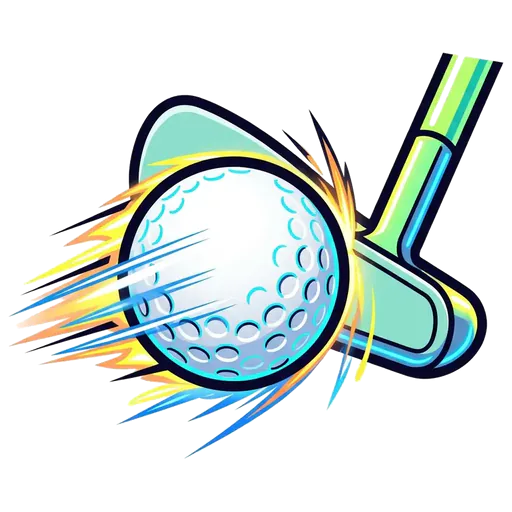
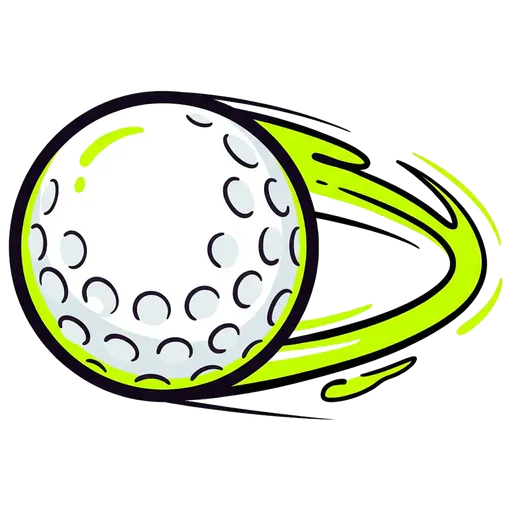
art(office): ball-only golf, neon paper planes, calmer stone and marble floors

diff --git a/public-office/art/SOURCES.md b/public-office/art/SOURCES.md
@@ -60,11 +60,11 @@ AI-generated for the fictional company 야근상사: no real people, brands, log
 | `cut/op-1.webp` | nano_banana_flash | $STYLE. Vertical 9:16 full-scene comic panel illustration with a fully drawn detailed background filling the entire image top to bottom, no empty areas, no lettering, no boxes or frames, any screens and papers blank. Late afternoon in the open-plan office of the fictional company, both heroes sit at their desks staring intensely at a big analog wall clock (hands only, no numbers) pointing to almost 5:30, sunset light through the window, nervous sweat drops; desks, chairs and carpet floor visible in the lower part. The two heroes are exactly the characters in the two reference images. |
 | `cut/op-2.webp` | nano_banana_flash | $STYLE. Vertical comic panel illustration, a lively Korean office of the fictional company, clean readable composition, any clocks are analog with hands only and no numbers, any screens and papers are blank, keep the bottom fifth of the image calm and simple (a caption box will be drawn there). Both heroes secretly packing their bags under the desks with sneaky faces, while the boss in the third reference image (cardigan with sticky notes) suddenly pops his head up over the cubicle partition behind them with a sly grin, manga surprise lines. The two heroes are exactly the characters in the first two reference images (a young man with round glasses, white shirt, mint necktie and orange backpack; a young woman with a black bob, lavender blouse, pink lanyard badge and eco bag). |
 | `floor-0.webp` | nano_banana_flash | bright Korean webtoon comic background art, bold clean outlines, soft pastel base colors with a few small neon accent pops, flat cel shading, low contrast calm background (characters will be drawn on top), no people, no text, no letters, no numbers, no logos. Top-down orthographic view looking straight down at a floor, seamless repeating texture, uniform even pattern edge to edge, flat even lighting, no objects, no shadows, no perspective. The floor: soft grey-blue office carpet tiles in a checker of two pastel tones with subtle fiber texture. |
-| `floor-0-dawn.webp` | nano_banana_flash | bright Korean webtoon comic background art, bold clean outlines, soft pastel base colors with a few small neon accent pops, flat cel shading, low contrast calm background (characters will be drawn on top), no people, no text, no letters, no numbers, no logos. Top-down orthographic view looking straight down at a floor, seamless repeating texture, uniform even pattern edge to edge, flat even lighting, no objects, no shadows, no perspective. The floor: polished cream lobby marble floor slabs with soft veins and warm pink sunset reflections. |
+| `floor-0-dawn.webp` | nano_banana_flash | bright Korean webtoon comic background art, soft pastel colors, flat cel shading, very low contrast and low detail, no text, no logos. Seamless tileable floor texture seen from directly above: smooth soft cream marble lobby floor with large rectangular slabs, only very subtle thin seams and faint soft veins, nearly uniform warm color, no reflections, no light streaks, flat even lighting, nothing on the floor. |
 | `floor-0-night.webp` | nano_banana_flash | bright Korean webtoon comic background art, bold clean outlines, soft pastel base colors with a few small neon accent pops, flat cel shading, low contrast calm background (characters will be drawn on top), no people, no text, no letters, no numbers, no logos. Top-down orthographic view looking straight down at a floor, seamless repeating texture, uniform even pattern edge to edge, flat even lighting, no objects, no shadows, no perspective. The floor: polished cream lobby marble floor slabs with soft veins and cool blue reflections. |
 | `floor-1.webp` | nano_banana_flash | bright Korean webtoon comic background art, soft pastel colors, flat cel shading, very low contrast and low detail, no text, no logos. Seamless tileable floor texture seen from directly above: smooth light mint vinyl office flooring with only a soft subtle mottled speckle, no tiles, no grid lines, no seams, nearly uniform color, flat even lighting, nothing on the floor. |
 | `floor-2.webp` | nano_banana_flash | bright Korean webtoon comic background art, soft pastel colors, flat cel shading, very low contrast and low detail, no text, no logos. Seamless tileable floor texture seen from directly above: soft lavender low-pile office carpet with a gentle fuzzy fiber texture and faint soft mottling, no tiles, no grid lines, no seams, no pattern, nearly uniform color, flat even lighting, nothing on the floor. |
-| `floor-3.webp` | nano_banana_flash | bright Korean webtoon comic background art, bold clean outlines, soft pastel base colors with a few small neon accent pops, flat cel shading, low contrast calm background (characters will be drawn on top), no people, no text, no letters, no numbers, no logos. Top-down orthographic view looking straight down at a floor, seamless repeating texture, uniform even pattern edge to edge, flat even lighting, no objects, no shadows, no perspective. The floor: polished peach and cream terrazzo floor tiles with small speckles. |
+| `floor-3.webp` | nano_banana_flash | bright Korean webtoon comic background art, soft pastel colors, flat cel shading, very low contrast and low detail, no text, no logos. Seamless tileable floor texture seen from directly above: smooth soft peach polished stone floor with large square tiles and only very subtle thin light seams, nearly uniform color, no speckles, no reflections, flat even lighting, nothing on the floor. |
 | `hero-cat-hit.webp` | nano_banana_flash | $STYLE. Same exact character, outfit and size as the reference image, strict side profile facing RIGHT. Getting bonked while running right: body recoiling backward to the left, face in profile pointing right, dizzy swirl eyes, little stars and a cartoon bump on the head, arms flailing, funny harmless; no objects, no hammer, no weapon. Single character only, full body, pure flat white background, no ground, no shadow, no speed lines. |
 | `hero-cat-jump.webp` | nano_banana_flash | $STYLE. Same exact character, same outfit, same colors, same size and same camera angle as the reference image. Strict side profile view facing RIGHT exactly like the reference: the nose, face, eyes and chest all point to the RIGHT edge of the image, eyes looking straight ahead to the right, we never see the back of the head and the character never looks at the viewer. Single character only, full body head to toe inside the frame, on a pure flat white background, no ground, no shadow, no speed-line background. Jumping high toward the right in side profile: knees tucked up under the body, arms thrown up and forward, excited surprised face in profile looking right. |
 | `hero-cat-run1.webp` | nano_banana_flash (2k, 21:9 sheet) | frame 1 of 4 cut from one run-cycle sheet: $STYLE. Game sprite sheet: exactly FOUR frames of ONE run cycle of the same character, laid out left to right in one row, evenly spaced, same size and same ground line in every frame, every frame in strict side profile facing RIGHT with the face and eyes looking right. Frame 1 contact: front leg reaching forward heel down, back leg behind. Frame 2 passing: one leg straight under the body bearing weight, the other knee bent swinging through, arms close to the body. Frame 3 push-off: back leg fully extended pushing off the toes, front knee driven high. Frame 4 flight: both feet off the ground, legs split wide, body highest. Arms swing opposite to legs. Pure flat white background, no ground line, no shadows, no speed lines, no text, no numbers, no borders between frames. The character is exactly the one in the reference images (young woman, glossy black bob with bangs, lavender short-sleeve blouse, pink lanyard with a blank white ID badge, beige slacks, black flats, cream eco bag on her shoulder). |
@@ -92,11 +92,11 @@ AI-generated for the fictional company 야근상사: no real people, brands, log
 | `prop-door.webp` | nano_banana_flash | $STYLE. Single game obstacle prop icon, one object only, centered, large and bold with a thick dark outline and saturated neon accent colors so it reads clearly at small size against pastel backgrounds, slight three-quarter view, on a pure flat white background, no shadow, no ground, no people, no hands. The object: a wooden office meeting room door bursting open with a small glass window, comic impact lines. |
 | `prop-elevator.webp` | nano_banana_flash | $STYLE. Single game obstacle prop icon, one object only, centered, large and bold with a thick dark outline and saturated neon accent colors so it reads clearly at small size against pastel backgrounds, slight three-quarter view, on a pure flat white background, no shadow, no ground, no people, no hands. The object: a pair of shiny steel elevator doors sliding open with warm light and a sparkle ding effect. |
 | `prop-envelope.webp` | nano_banana_flash | $STYLE. Single game obstacle prop icon, one object only, centered, large and bold with a thick dark outline and saturated neon accent colors so it reads clearly at small size against pastel backgrounds, slight three-quarter view, on a pure flat white background, no shadow, no ground, no people, no hands. The object: a shower of plain golden envelopes falling, blank. |
-| `prop-golf.webp` | nano_banana_flash | $STYLE. Single game obstacle prop icon, one object only, centered, large and bold with a thick dark outline and saturated neon accent colors so it reads clearly at small size against pastel backgrounds, slight three-quarter view, on a pure flat white background, no shadow, no ground, no people, no hands. The object: a white golf ball rolling fast with a putter head behind it, motion lines. |
+| `prop-golf.webp` | nano_banana_flash | $STYLE. Single game obstacle prop icon, centered, large and bold with a very thick dark outline and saturated neon accent colors so it reads clearly at small size against pastel backgrounds, on a pure flat white background, no shadow, no ground, no people, no hands. The object: one single white golf ball with dimples and a very thick dark outline, rolling fast with a short neon lime-green motion trail behind it. Only the ball, no club, no putter, no flag. |
 | `prop-latte-bubble.webp` | nano_banana_flash | $STYLE. Single game obstacle prop icon, one object only, centered, large and bold with a thick dark outline and saturated neon accent colors so it reads clearly at small size against pastel backgrounds, slight three-quarter view, on a pure flat white background, no shadow, no ground, no people, no hands. The object: a huge puffy blank white comic speech bubble with a latte coffee cup icon inside, no letters. |
 | `prop-necktie.webp` | nano_banana_flash | $STYLE. Single game obstacle prop icon, one object only, centered, large and bold with a thick dark outline and saturated neon accent colors so it reads clearly at small size against pastel backgrounds, slight three-quarter view, on a pure flat white background, no shadow, no ground, no people, no hands. The object: an extremely long neon magenta necktie stretched like a whip in a wavy line. |
 | `prop-paper-jam.webp` | nano_banana_flash | $STYLE. Single game obstacle prop icon, one object only, centered, large and bold with a thick dark outline and saturated neon accent colors so it reads clearly at small size against pastel backgrounds, slight three-quarter view, on a pure flat white background, no shadow, no ground, no people, no hands. The object: a crumpled paper jam spilling across the floor from a printer tray with a glowing orange warning light, flat low object. |
-| `prop-paper-plane.webp` | nano_banana_flash | $STYLE. Single game obstacle prop icon, one object only, centered, large and bold with a thick dark outline and saturated neon accent colors so it reads clearly at small size against pastel backgrounds, slight three-quarter view, on a pure flat white background, no shadow, no ground, no people, no hands. The object: a formation of three folded white paper airplanes made from green-gridded spreadsheet paper, blank. |
+| `prop-paper-plane.webp` | nano_banana_flash | $STYLE. Single game obstacle prop icon, centered, large and bold with a very thick dark outline, on a pure flat white background, no shadow, no ground. The object: two plain folded paper airplanes flying side by side to the left, one bright neon lime-green and one bright neon yellow, crisp geometric folds, small speed swooshes behind. Plain paper objects only: no faces, no eyes, no characters, no riders, no writing. |
 | `prop-papers.webp` | nano_banana_flash | $STYLE. Single game obstacle prop icon, one object only, centered, large and bold with a very thick dark outline and saturated neon accent colors so it reads clearly at small size against pastel mint backgrounds, slight three-quarter view, on a pure flat white background, no shadow, no ground, no people, no hands. The object: a toppling tall stack of colorful office folders and binders in hot pink, neon orange, cobalt blue and lime green with a few blank papers sliding out sideways, blank labels. |
 | `prop-pointer.webp` | nano_banana_flash | $STYLE. Single game obstacle prop icon, one object only, centered, large and bold with a thick dark outline and saturated neon accent colors so it reads clearly at small size against pastel backgrounds, slight three-quarter view, on a pure flat white background, no shadow, no ground, no people, no hands. The object: a row of glowing neon red laser pointer dots with a thin red beam line, horizontal. |
 | `prop-postit.webp` | nano_banana_flash | $STYLE. Single game obstacle prop icon, one object only, centered, large and bold with a thick dark outline and saturated neon accent colors so it reads clearly at small size against pastel backgrounds, slight three-quarter view, on a pure flat white background, no shadow, no ground, no people, no hands. The object: a burst cluster of neon yellow, pink and green sticky notes flying in a swirl, all blank. |
@@ -205,3 +205,5 @@ GPT Image 2.5 (`gpt_image_2_5`, medium, transparent) → trimmed, contained with
 | `collect-cookie.webp` | gpt_image_2_5 | Single game pickup item icon, one object only, centered and filling most of the square, very thick dark outline, bold simple shapes, saturated colors with neon accents, bright Korean webtoon comic style, cel shading, readable at 32 pixels, transparent background, no text, no letters, no numbers, no logos. The item: a round chocolate chip cookie with a bite taken out. |
 | `collect-badge.webp` | gpt_image_2_5 | Single game pickup item icon, one object only, centered and filling most of the square, very thick dark outline, bold simple shapes, saturated colors with neon accents, bright Korean webtoon comic style, cel shading, readable at 32 pixels, transparent background, no text, no letters, no numbers, no logos. The item: an employee ID badge card on a pink lanyard with a blank photo silhouette. |
 | `collect-envelope.webp` | gpt_image_2_5 | Single game pickup item icon, one object only, centered and filling most of the square, very thick dark outline, bold simple shapes, saturated colors with neon accents, bright Korean webtoon comic style, cel shading, readable at 32 pixels, transparent background, no text, no letters, no numbers, no logos. The item: a plain golden envelope with a red seal, glowing. |
+
+v2 feel review (2026-10-29): prop-golf (ball only) and prop-paper-plane (neon planes, no faces) regenerated and mirrored to travel LEFT (the renderer flips only rear attacks); floor-3 and floor-0-dawn regenerated calmer (no speckle / reflections), soften 0.25 / 0.2, mirror-tiled.
